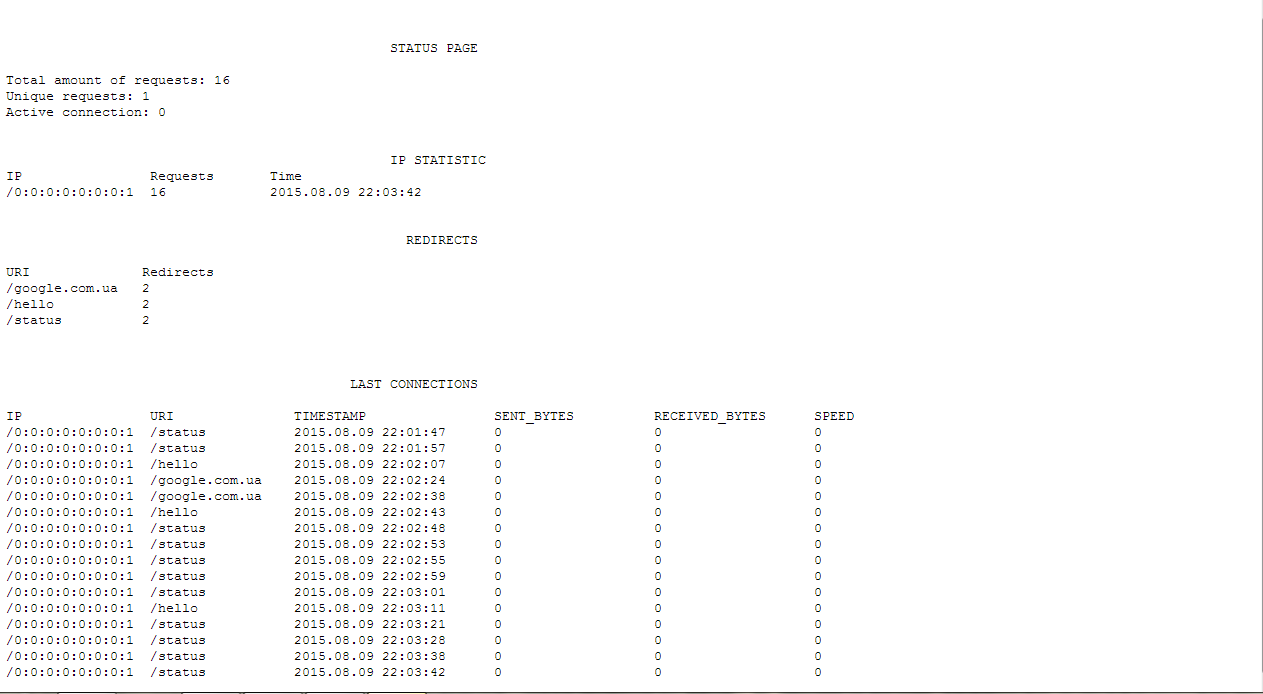
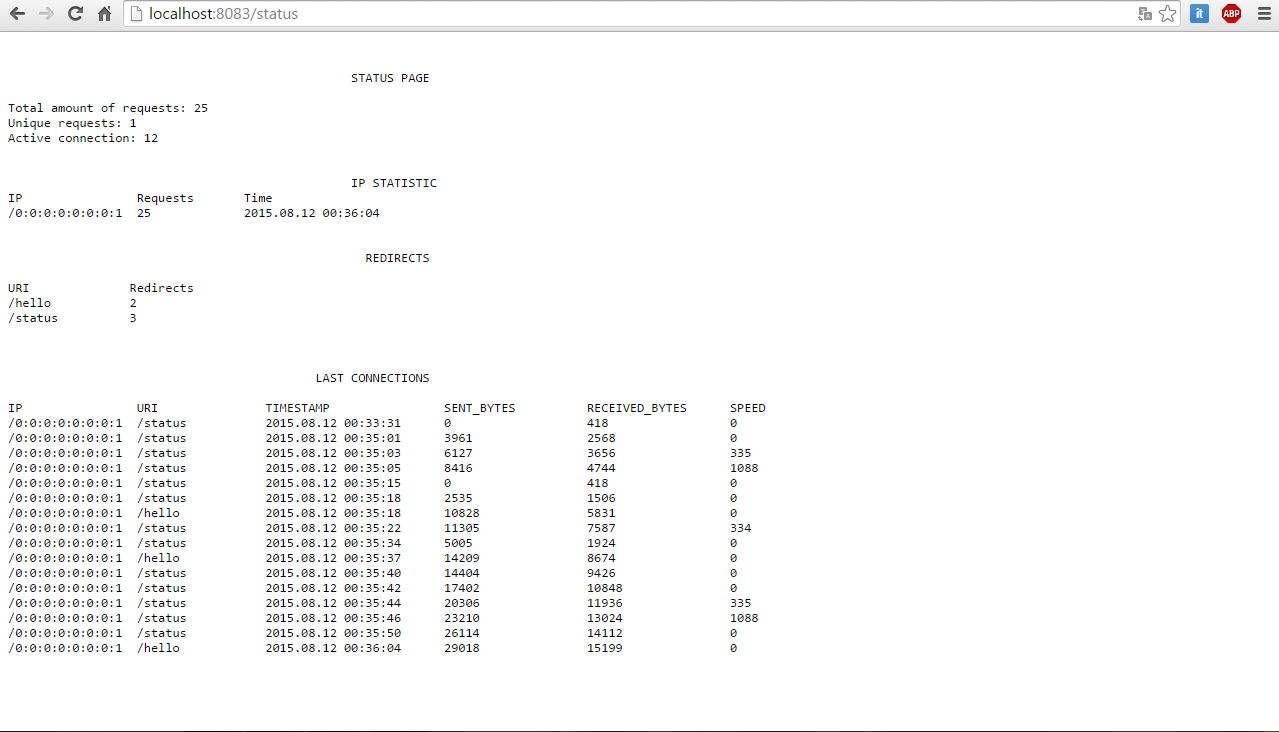
TestTask
Screenshots in resources

diff --git a/src/main/java/status/StatisticCounter.java b/src/main/java/status/StatisticCounter.java
@@ -1,20 +1,18 @@
 package status;
 
 import io.netty.channel.ChannelHandler;
+import io.netty.channel.ChannelHandlerContext;
 import io.netty.handler.traffic.ChannelTrafficShapingHandler;
 import io.netty.handler.traffic.TrafficCounter;
-import io.netty.util.collection.IntObjectHashMap;
-import io.netty.util.collection.IntObjectMap;
 
 import java.util.*;
-import java.util.concurrent.ScheduledThreadPoolExecutor;
 
 /**
  * Created by yuliya.shevchuk on 05.08.2015.
  */
 
 @ChannelHandler.Sharable
-public class StatisticCounter extends ChannelTrafficShapingHandler {
+public class StatisticCounter {
 
     public static final String FILENAME = "config.cf";
     public static final String REDIRECT = "REDIRECT";
@@ -24,19 +22,16 @@ public class StatisticCounter extends ChannelTrafficShapingHandler {
     private final ResourceBundle resource;
     private List<Request> statusList;
     private Set<String> uniqueIpSet;
-    private IntObjectMap activeConnections;
-    private final TrafficCounter counter;
+    private long activeConnections;
 
 
     public StatisticCounter() {
-        super(1000, 1000);
+
         urlMap = new TreeMap<String, Integer>();
-        ipMap = new HashMap<String, IpCounter>();//ToDo:hashCode
+        ipMap = new HashMap<String, IpCounter>();
         uniqueIpSet = new HashSet<>();
         statusList = new ArrayList<>(16);
         resource = ResourceBundle.getBundle(FILENAME);
-        counter = new TrafficCounter(new ScheduledThreadPoolExecutor(4), "ThreadPoolExecutor", 1000);
-        activeConnections = new IntObjectHashMap();
 
     }
 
@@ -70,7 +65,11 @@ public class StatisticCounter extends ChannelTrafficShapingHandler {
 
     }
 
-    public synchronized void updateStatusList(String ip, String url) {
+    public synchronized void updateStatusList(ChannelHandlerContext ctx, String ip, String url) {
+
+        ChannelHandler trafficHandler = ctx.pipeline().get("trafficCounter");
+        ChannelTrafficShapingHandler channelTrafficShapingHandler = (ChannelTrafficShapingHandler) trafficHandler;
+        TrafficCounter counter = channelTrafficShapingHandler.trafficCounter();
 
         if (statusList.size() == 16) {
             statusList.remove(1);
@@ -82,14 +81,11 @@ public class StatisticCounter extends ChannelTrafficShapingHandler {
 
         status.setSentBytes(counter.cumulativeWrittenBytes());
         status.setReceivedBytes(counter.cumulativeReadBytes());
-        status.setSpeed((counter.lastReadThroughput()>>10));
+        status.setSpeed((counter.lastReadThroughput()));
         statusList.add(status);
 
     }
 
-    public synchronized int getActiveConnection() {
-        return activeConnections.size();
-    }
 
     public synchronized int getQuantityRequest() {
         return quantityRequest;
@@ -131,7 +127,11 @@ public class StatisticCounter extends ChannelTrafficShapingHandler {
         this.uniqueIpSet = uniqueIpSet;
     }
 
-    public TrafficCounter getCounter() {
-        return counter;
+    public long getActiveConnections() {
+        return activeConnections;
+    }
+
+    public void setActiveConnections(long activeConnections) {
+        this.activeConnections = activeConnections;
     }
 }

diff --git a/src/main/java/command/Command.java b/src/main/java/command/Command.java
@@ -3,19 +3,13 @@ package command;
 
 import io.netty.channel.ChannelFutureListener;
 import io.netty.channel.ChannelHandlerContext;
-import io.netty.handler.codec.http.DefaultFullHttpResponse;
-import io.netty.handler.codec.http.FullHttpResponse;
-import io.netty.handler.codec.http.HttpHeaders;
-import io.netty.handler.codec.http.HttpRequest;
+import io.netty.handler.codec.http.*;
 import io.netty.util.HashedWheelTimer;
-import io.netty.util.Timeout;
 import io.netty.util.Timer;
-import io.netty.util.TimerTask;
 import status.StatisticCounter;
 
 import java.net.InetSocketAddress;
 import java.util.ResourceBundle;
-import java.util.concurrent.TimeUnit;
 
 import static io.netty.handler.codec.http.HttpHeaders.Names.CONNECTION;
 import static io.netty.handler.codec.http.HttpResponseStatus.CONTINUE;
@@ -36,7 +30,7 @@ public abstract class Command {
 
     public abstract void execute(ChannelHandlerContext ctx, Object msg, StatisticCounter statisticCollector);
 
-    public void checkStatus(ChannelHandlerContext ctx, Object msg, StatisticCounter statisticCollector) {
+    private void checkStatus(ChannelHandlerContext ctx, Object msg, StatisticCounter statisticCollector) {
 
         if (msg instanceof HttpRequest) {
             HttpRequest req = (HttpRequest) msg;
@@ -50,7 +44,7 @@ public abstract class Command {
 
                 if (!uri.contains(resource.getObject(REDIRECT).toString())) {
                     statisticCollector.setQuantityRequest(statisticCollector.getQuantityRequest() + 1);
-                    statisticCollector.updateStatusList(ip, uri);
+                    statisticCollector.updateStatusList(ctx, ip, uri);
                     statisticCollector.updateIpMap(ip);
                     statisticCollector.updateUniqueIpSet(ip);
 
@@ -59,7 +53,9 @@ public abstract class Command {
         }
     }
 
-    public void sendResponse(ChannelHandlerContext ctx, Object msg, FullHttpResponse response) {
+    public void sendResponse(ChannelHandlerContext ctx, Object msg, FullHttpResponse response, StatisticCounter statisticCollector) {
+
+        checkStatus(ctx, msg, statisticCollector);
 
         if (msg instanceof HttpRequest) {
             HttpRequest req = (HttpRequest) msg;
@@ -74,6 +70,7 @@ public abstract class Command {
             } else {
                 response.headers().set(CONNECTION, HttpHeaders.Values.KEEP_ALIVE);
                 ctx.write(response);
+                ctx.writeAndFlush(LastHttpContent.EMPTY_LAST_CONTENT);
             }
         }
 

diff --git a/src/main/java/command/CommandHello.java b/src/main/java/command/CommandHello.java
@@ -4,8 +4,11 @@ import io.netty.buffer.Unpooled;
 import io.netty.channel.ChannelHandlerContext;
 import io.netty.handler.codec.http.DefaultFullHttpResponse;
 import io.netty.handler.codec.http.FullHttpResponse;
+import io.netty.handler.codec.http.HttpRequest;
 import io.netty.util.CharsetUtil;
 import status.StatisticCounter;
+
+import java.util.concurrent.TimeUnit;
 
 import static io.netty.handler.codec.http.HttpHeaders.Names.CONTENT_LENGTH;
 import static io.netty.handler.codec.http.HttpHeaders.Names.CONTENT_TYPE;
@@ -22,28 +25,22 @@ public class CommandHello extends Command {
     public static final String MESSAGE = "Hello World!";
 
     @Override
-    public void execute(final ChannelHandlerContext ctx, final Object msg, StatisticCounter statisticCollector) {
+    public void execute(final ChannelHandlerContext ctx, final Object msg, final StatisticCounter statisticCollector) {
 
-        /*ctx.executor().schedule(new Runnable() {
+        ctx.executor().schedule(new Runnable() {
             @Override
-            public void run() {*/
+            public void run() {
+
+                HttpRequest req = (HttpRequest) msg;
                 FullHttpResponse response = new DefaultFullHttpResponse(HTTP_1_1, OK, Unpooled.unreleasableBuffer(Unpooled.copiedBuffer(
                         MESSAGE, CharsetUtil.UTF_8)));
-
                 response.headers().set(CONTENT_TYPE, "text/plain");
                 response.headers().set(CONTENT_LENGTH, response.content().readableBytes());
 
-                sendResponse(ctx, msg, response);
+                sendResponse(ctx, msg, response, statisticCollector);
 
-        //}, 10, TimeUnit.SECONDS);
-
-        try {
-            Thread.sleep(10000);
-        } catch (InterruptedException e) {
-            e.printStackTrace();
-        }
-
-        checkStatus(ctx, msg, statisticCollector);
+            }
+        }, 10, TimeUnit.SECONDS);
 
     }
 }

diff --git a/src/main/java/server/ServerInitializer.java b/src/main/java/server/ServerInitializer.java
@@ -5,6 +5,9 @@ import io.netty.channel.ChannelPipeline;
 import io.netty.channel.socket.SocketChannel;
 import io.netty.handler.codec.http.HttpServerCodec;
 import io.netty.handler.ssl.SslContext;
+import io.netty.handler.traffic.AbstractTrafficShapingHandler;
+import io.netty.handler.traffic.ChannelTrafficShapingHandler;
+import io.netty.util.collection.IntObjectHashMap;
 import status.StatisticCounter;
 
 /**
@@ -15,11 +18,11 @@ import status.StatisticCounter;
 public class ServerInitializer extends ChannelInitializer<SocketChannel> {
 
     private SslContext sslCtx;
-    private StatisticCounter statisticCollector;
+   private StatisticCounter statisticCounter;
 
     public ServerInitializer(SslContext sslCtx) {
         this.sslCtx = sslCtx;
-        statisticCollector = new StatisticCounter();
+       statisticCounter = new StatisticCounter();
     }
 
 
@@ -31,10 +34,10 @@ public class ServerInitializer extends ChannelInitializer<SocketChannel> {
         }
 
 
-        p.addLast("traffic-counter", statisticCollector);
+        p.addLast("trafficCounter",  new ChannelTrafficShapingHandler(
+                AbstractTrafficShapingHandler.DEFAULT_CHECK_INTERVAL));
         p.addLast("serverCodec", new HttpServerCodec());
-        p.addLast("serverHandler",new ServerHandler(statisticCollector));
-
+        p.addLast("serverHandler",new ServerHandler(statisticCounter));
 
     }
 }

diff --git a/src/main/java/command/CommandRedirect.java b/src/main/java/command/CommandRedirect.java
@@ -1,6 +1,7 @@
 package command;
 
 
+import io.netty.channel.ChannelFutureListener;
 import io.netty.channel.ChannelHandlerContext;
 import io.netty.handler.codec.http.*;
 import status.StatisticCounter;
@@ -14,20 +15,19 @@ public class CommandRedirect extends Command {
 
 
     @Override
-    public void execute(ChannelHandlerContext ctx, Object msg, StatisticCounter statisticCollector) {
+    public void execute(ChannelHandlerContext ctx, Object msg, StatisticCounter statisticCounter) {
+
 
         if (msg instanceof HttpRequest) {
             HttpRequest req = (HttpRequest) msg;
-            String uri = req.getUri();
 
-            String url = uri.substring(14);
+            String url = req.getUri().substring(15);
 
-            FullHttpResponse response = new DefaultFullHttpResponse(HTTP_1_1, HttpResponseStatus.OK);
+            FullHttpResponse response = new DefaultFullHttpResponse(HTTP_1_1, HttpResponseStatus.FOUND);
             response.headers().set(HttpHeaders.Names.LOCATION, url);
 
-            sendResponse(ctx, msg, response);
-
+            sendResponse(ctx, msg, response, statisticCounter);
         }
-        checkStatus(ctx, msg, statisticCollector);
+
     }
 }

diff --git a/src/main/java/command/CommandStatus.java b/src/main/java/command/CommandStatus.java
@@ -28,9 +28,8 @@ public class CommandStatus extends Command {
         response.headers().set(CONTENT_TYPE, "text/plain");
         response.headers().set(CONTENT_LENGTH, response.content().readableBytes());
 
-        sendResponse(ctx, msg, response);
+        sendResponse(ctx, msg, response,statisticCollector);
 
-        checkStatus(ctx, msg, statisticCollector);
     }
 
     private String createOutput(StatisticCounter statisticCollector) {
@@ -38,7 +37,7 @@ public class CommandStatus extends Command {
         stringBuf.append("\n\n" + new Formatter().format("%60s%n", "STATUS PAGE\n"));
         stringBuf.append("Total amount of requests: " + statisticCollector.getQuantityRequest());
         stringBuf.append("\nUnique requests: " + statisticCollector.getUniqueIpSet().size());
-        stringBuf.append("\nActive connection: " + statisticCollector.getActiveConnection() + "\n\n\n");
+        stringBuf.append("\nActive connection: " + statisticCollector.getActiveConnections() + "\n\n\n");
 
         stringBuf.append(new Formatter().format("%60s%n%-18s%-15s%-25s%n", "IP STATISTIC", "IP", "Requests", "Time"));
 

diff --git a/src/main/java/server/ServerHandler.java b/src/main/java/server/ServerHandler.java
@@ -46,4 +46,14 @@ public class ServerHandler extends ChannelInboundHandlerAdapter {
         ctx.close();
     }
 
+    @Override
+    public void channelActive(ChannelHandlerContext ctx) throws Exception {
+        statisticCollector.setActiveConnections(statisticCollector.getActiveConnections() + 1);
+
+    }
+
+    @Override
+    public void channelInactive(ChannelHandlerContext ctx) throws Exception {
+        statisticCollector.setActiveConnections(statisticCollector.getActiveConnections() + 1);
+    }
 }

diff --git a/src/main/java/command/CommandMissing.java b/src/main/java/command/CommandMissing.java
@@ -27,8 +27,7 @@ public class CommandMissing extends Command {
         response.headers().set(CONTENT_TYPE, "text/plain");
         response.headers().set(CONTENT_LENGTH, response.content().readableBytes());
 
-        sendResponse(ctx, msg, response);
+        sendResponse(ctx, msg, response,statisticCollector);
 
-        checkStatus(ctx, msg, statisticCollector);
     }
 }

diff --git a/src/main/java/server/HttpServer.java b/src/main/java/server/HttpServer.java
@@ -32,7 +32,6 @@ public class HttpServer {
         }
 
 
-
         EventLoopGroup bossGroup = new NioEventLoopGroup(1);
         EventLoopGroup workerGroup = new NioEventLoopGroup();
 

diff --git a/src/main/java/config/Config.java b/src/main/java/config/Config.java
@@ -45,7 +45,6 @@ public class Config {
             }
         }
 
-
         return MISSING;
 
     }
